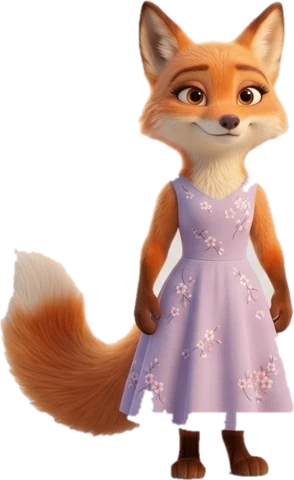
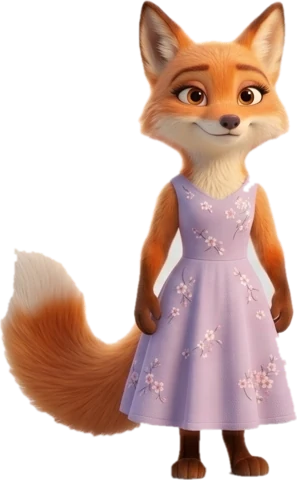
Cutouts: Мишка's rolled-up denim cuffs and Мама's lit lilac dress hem were cut out as background; make-cutouts.py now never removes light bluish/lilac cloth, drops grey floor-shadow specks; re-cut from masters (Папа, Ёжик, Белочка unchanged). Home figure tiles get a soft contact shadow

diff --git a/src/shared/base.css b/src/shared/base.css
@@ -643,6 +643,8 @@ button {
 .game-tile__art > img.is-figure {
   object-fit: contain;
   padding: 8px 0 0;
+  /* A soft contact shadow, so light fur and clothes stand off the light tile. */
+  filter: drop-shadow(0 2px 3px rgba(59, 46, 37, 0.28));
 }
 
 .game-tile__body {

diff --git a/scripts/make-cutouts.py b/scripts/make-cutouts.py
@@ -27,6 +27,14 @@ CROPS = {
 }
 
 
+def cloth(c):
+    """Light clothes that are close to the studio grey but not grey: bluish
+    denim (Мишка's rolled-up cuffs) and lilac (Мама's lit dress hem). The
+    studio grey and the floor are neutral or warm, so these never are."""
+    r, g, b = c
+    return b - r > 3 or (r - g > 6 and b - g > 6)
+
+
 def cut(name, file, box, tol, erase=None):
     im = Image.open(MASTERS / file).convert("RGB")
     scale = im.width / 1000
@@ -60,8 +68,9 @@ def cut(name, file, box, tol, erase=None):
         c = px[x, y]
         # Compare with the studio colour and with the neighbour we came from,
         # so the soft gradient and floor shadow are followed but fur is not.
-        floor = y > h * 0.85 and max(c) - min(c) < 30 and 3 * 100 < sum(c) < 3 * 215
-        if not (floor or near(c, bg) or near(c, ref) and sum(c) > 3 * 150 and max(c) - min(c) < 30):
+        warm = not cloth(c)
+        floor = warm and y > h * 0.85 and max(c) - min(c) < 30 and 3 * 100 < sum(c) < 3 * 215
+        if not (floor or near(c, bg) or warm and near(c, ref) and sum(c) > 3 * 150 and max(c) - min(c) < 30):
             continue
         seen[i] = 1
         for nx, ny in ((x + 1, y), (x - 1, y), (x, y + 1), (x, y - 1)):
@@ -81,8 +90,10 @@ def cut(name, file, box, tol, erase=None):
         if y > feet:
             # Light floor and contact shadow between and under the feet;
             # paws and fur stay because they are darker or orange-brown.
-            return 6 < r - b < 48 and spread < 50 and sum(c) > 3 * 140
-        return r - b < 6 and spread < 24 and sum(c) > 3 * 120
+            return not cloth(c) and 6 < r - b < 48 and spread < 50 and sum(c) > 3 * 140
+        # Neutral only: bluish light grey is denim (Мишка's rolled-up cuffs),
+        # not the warm studio grey.
+        return not cloth(c) and r - b < 6 and spread < 24 and sum(c) > 3 * 120
 
     q = deque(i for i in range(w * h) if seen[i])
     while q:
@@ -101,7 +112,7 @@ def cut(name, file, box, tol, erase=None):
         for x in range(w):
             c = px[x, y]
             # Neutral grey, not the bluish denim of the overalls.
-            if max(c) - min(c) < 24 and c[2] - c[0] < 8 and sum(c) > 3 * 125:
+            if not cloth(c) and max(c) - min(c) < 24 and c[2] - c[0] < 8 and sum(c) > 3 * 125:
                 seen[y * w + x] = 1
     # Keep only the biggest figure: drops slivers of neighbours in the lineup.
     comp = [0] * (w * h)
@@ -111,12 +122,14 @@ def cut(name, file, box, tol, erase=None):
         if seen[start] or comp[start]:
             continue
         label += 1
-        size, stack, top_y = 0, [start], start // w
+        size, stack, top_y, colour = 0, [start], start // w, 0
         comp[start] = label
         while stack:
             i = stack.pop()
             size += 1
             x, y = i % w, i // w
+            c = px[x, y]
+            colour += max(c) - min(c)
             top_y = min(top_y, y)
             for nx, ny in ((x + 1, y), (x - 1, y), (x, y + 1), (x, y - 1)):
                 if 0 <= nx < w and 0 <= ny < h:
@@ -124,12 +137,13 @@ def cut(name, file, box, tol, erase=None):
                     if not seen[j] and not comp[j]:
                         comp[j] = label
                         stack.append(j)
-        parts[label] = (size, top_y)
+        parts[label] = (size, top_y, colour / size)
         if size > best_size:
             best, best_size = label, size
     # Feet that the floor passes cut off from the body stay too: small parts
     # that start low in the figure (neighbours in the lineup are tall).
-    keep = {best} | {k for k, (size, top_y) in parts.items() if size > best_size * 0.004 and top_y > gap}
+    # A grey floor shadow is not a foot: feet are brown or orange.
+    keep = {best} | {k for k, (size, top_y, sat) in parts.items() if size > best_size * 0.004 and top_y > gap and sat > 30}
     mask = Image.new("L", (w, h), 0)
     mp = mask.load()
     for y in range(h):
